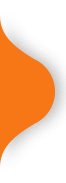
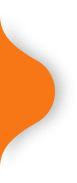
styling issue on main screen

Changed region(s): [[0.0, 0.1093, 0.9697, 0.8197], [0.0303, 0.8197, 0.0606, 0.847], [0.0, 0.847, 0.0303, 0.8743]]

diff --git a/App/Containers/ProductsUploader.js b/App/Containers/ProductsUploader.js
@@ -250,7 +250,7 @@ class ProductsUploader extends Component {
           </ImageBackground>
         </TouchableOpacity>
         <TouchableOpacity onPress={()=>this.props.navigation.navigate('RightSideMenu')}>
-          <ImageBackground resizeMode='stretch' source={Images.ear_right} style={styles.ear_left}>
+          <ImageBackground resizeMode='stretch' source={Images.ear_right} style={styles.ear_right}>
             <ImageBackground resizeMode='stretch' source={Images.cog_green} style={styles.cog_icon}>
             </ImageBackground>
           </ImageBackground>
@@ -318,7 +318,7 @@ class ProductsUploader extends Component {
   }
 
   renderProductNames= () =>(
-      <View style={{ height: Metrics.HEIGHT(140), marginTop: Metrics.HEIGHT(-35), marginBottom: Metrics.HEIGHT(10)}}>
+      <View style={{ marginTop: Metrics.HEIGHT(-50), marginBottom: Metrics.HEIGHT(10)}}>
         <ImageBackground resizeMode='stretch' source={Images.button} style={styles.product_name}>
           {
             this.state.showModal?
@@ -327,13 +327,13 @@ class ProductsUploader extends Component {
           </ModalDropdown>
           :null
           }
-          <Text style={[Fonts.style.description, { flex:1, fontFamily: Fonts.type.emphasis, marginHorizontal: 10 }]}>
+          <Text style={[Fonts.style.h6, { flex:1, fontFamily: Fonts.type.emphasis, marginHorizontal: 10 }]}>
           название товара: 
           </Text>
           <Input
             maxLength={20}
             placeholder={'Product Name'}
-            style={{flex:2, marginLeft: 30}}
+            style={{flex:1, marginLeft: 30}}
             textAlign={'left'}
             value={this.state.productName}
             onChangeText={this.onChangeProductName}
@@ -348,13 +348,13 @@ class ProductsUploader extends Component {
           />
         </ImageBackground>
         <ImageBackground resizeMode='stretch' source={Images.button} style={styles.product_name}>
-          <Text style={[Fonts.style.description, { flex:1, fontFamily: Fonts.type.emphasis, marginHorizontal: 10 }]}>
-          баркод:
+        <Text style={[Fonts.style.h6, { flex:1, fontFamily: Fonts.type.emphasis, marginHorizontal: 10 }]}>
+            баркод:
           </Text>
           <Input 
             maxLength={20}
             placeholder={'Barcode Number'}
-            style={{flex:2, marginLeft: 30}}
+            style={{flex:1, marginLeft: 30}}
             textAlign={'left'}
             value={this.state.barcodeNumber}
             onChangeText={this.onChangeBarcodeNumber}
@@ -369,13 +369,13 @@ class ProductsUploader extends Component {
           />
         </ImageBackground>
         <ImageBackground resizeMode='stretch' source={Images.button} style={styles.product_name}>
-          <Text style={[Fonts.style.description, { flex:1, fontFamily: Fonts.type.emphasis, marginHorizontal: 10 }]}>
+          <Text style={[Fonts.style.h6, { flex:1, fontFamily: Fonts.type.emphasis, marginHorizontal: 10 }]}>
           цена основная:
           </Text>
           <Input
             maxLength={20}
             placeholder={'Price'}
-            style={{marginLeft: 30, flex:2}}
+            style={{marginLeft: 30, flex:1}}
             textAlign={'left'}
             value={this.state.price}
             fontSize={Fonts.size.regular}

diff --git a/App/Containers/Styles/LoginScreenStyle.js b/App/Containers/Styles/LoginScreenStyle.js
@@ -53,7 +53,7 @@ export default StyleSheet.create({
   bottomProductRightBtn: {
     flexDirection: 'row',
     width: Metrics.WIDTH(310),
-    height: Metrics.HEIGHT(60),
+    height: Metrics.WIDTH(60),
     alignItems: 'center',
     justifyContent: 'space-between',
     paddingHorizontal: Metrics.WIDTH(20),
@@ -65,7 +65,7 @@ export default StyleSheet.create({
     borderRadius: 30,
     flexDirection: 'row',
     width: Metrics.WIDTH(260),
-    height: Metrics.HEIGHT(60),
+    height: Metrics.WIDTH(60),
     alignItems: 'center',
     justifyContent: 'space-between',
     paddingHorizontal: Metrics.WIDTH(20),
@@ -97,6 +97,14 @@ export default StyleSheet.create({
     height: Metrics.HEIGHT(183),
     alignItems: 'center',
     justifyContent: 'center',
+    paddingRight: Metrics.WIDTH(20),
+  },
+  ear_right: {
+    width: Metrics.WIDTH(77),
+    height: Metrics.HEIGHT(183),
+    alignItems: 'center',
+    justifyContent: 'center',
+    paddingLeft: Metrics.WIDTH(20),
   },
   cog_icon: {
     width: Metrics.WIDTH(27),
@@ -107,7 +115,7 @@ export default StyleSheet.create({
     alignItems: 'center',
     justifyContent: 'space-between',
     width: Metrics.WIDTH(430),
-    height: Metrics.HEIGHT(40),
+    height: Metrics.HEIGHT(60),
     paddingHorizontal: Metrics.WIDTH(20),
     alignSelf: 'center',
     flex: 1,
